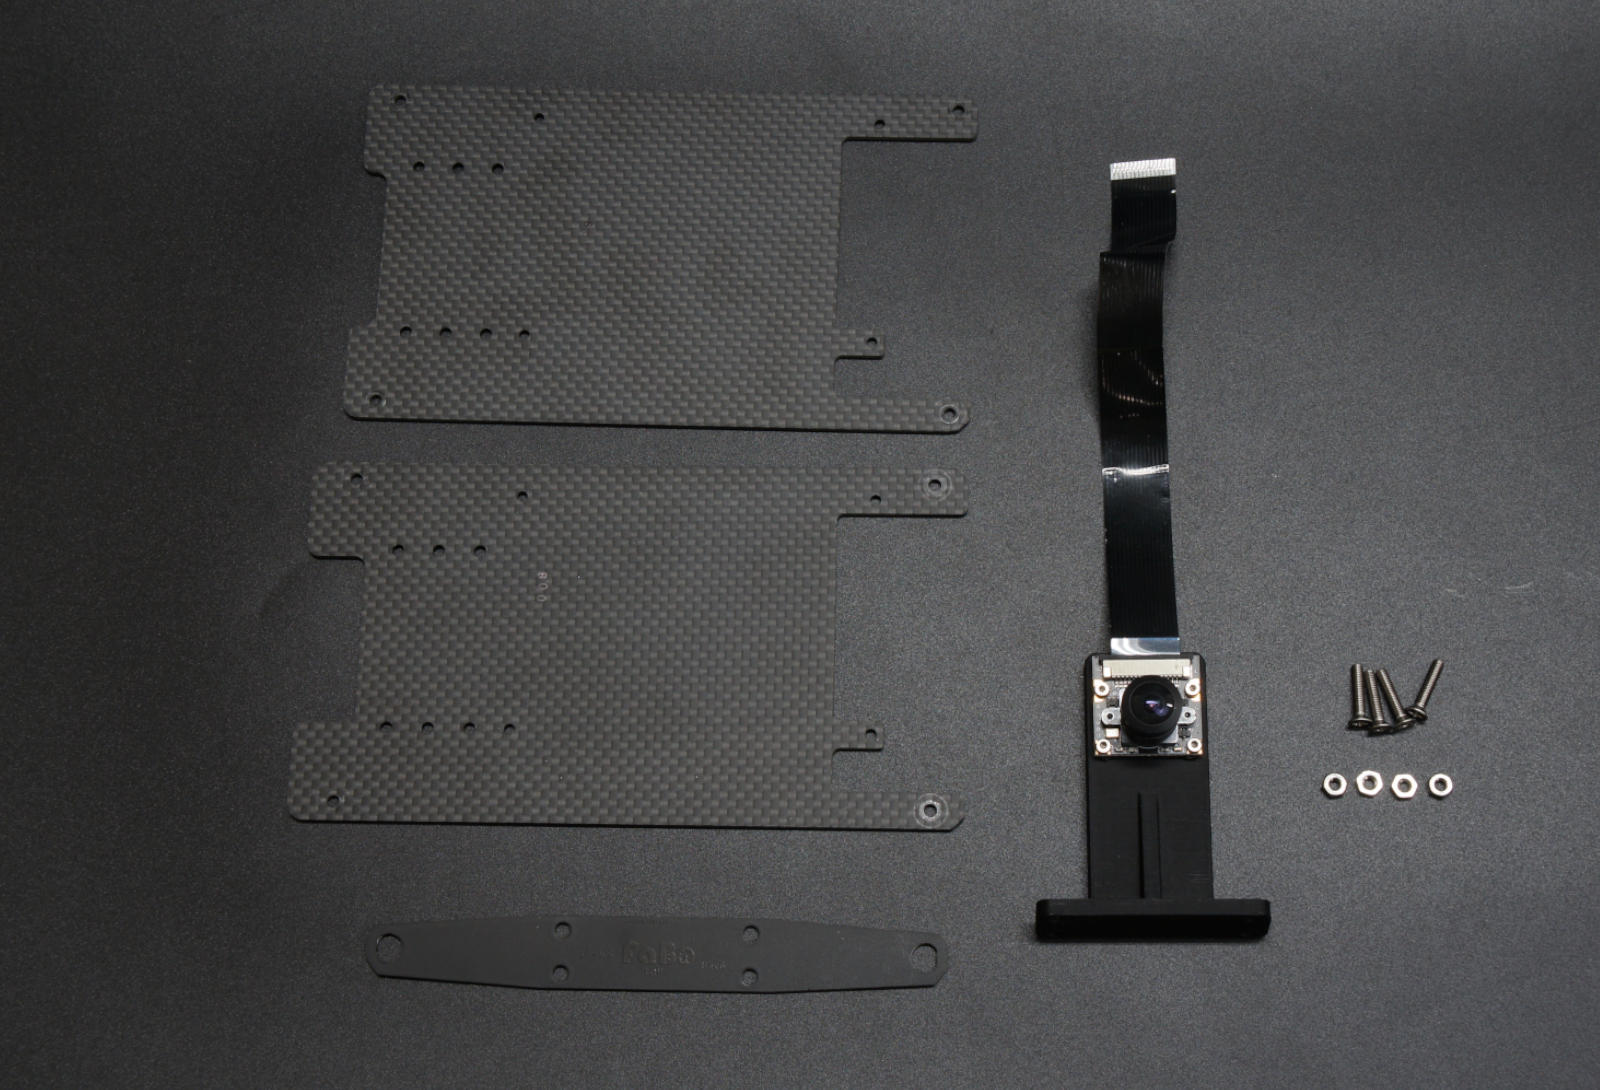
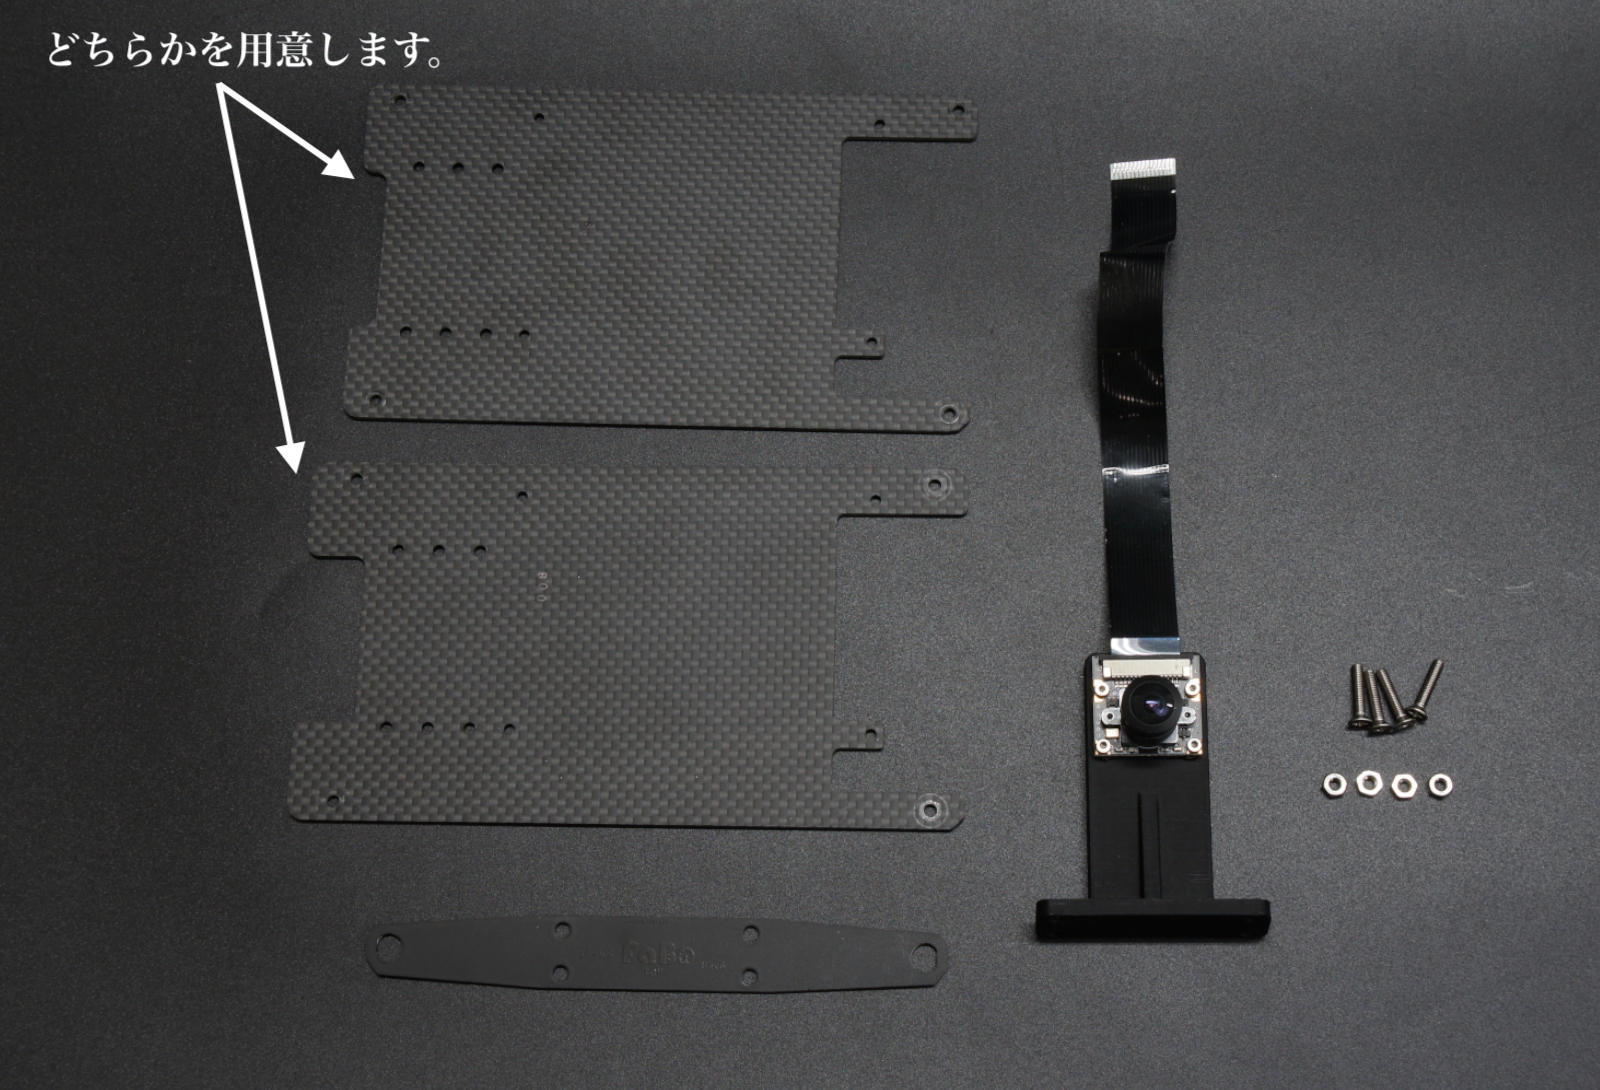
Deployed 196a131 with MkDocs version: 1.3.0

Changed region(s): [[0.0312, 0.0312, 0.2812, 0.2183], [0.1562, 0.2183, 0.1875, 0.4367], [0.1875, 0.1248, 0.2188, 0.1872]]

diff --git a/01.組み立て/carbon_edition/JR1_S_C_D/08.build_Carbon_D/index.html b/01.組み立て/carbon_edition/JR1_S_C_D/08.build_Carbon_D/index.html
@@ -1214,7 +1214,6 @@
 <p><img alt="" src="../../../img/img_carbon/D/DSC06397.JPG" /></p>
 <p>モバイルバッテリーとロワーパネルを両面テープで接着させます。モバイルバッテリーを中央ではなく片方に寄せます。（モバイルバッテリーの残量ランプを見やすくするため）</p>
 <p><img alt="" src="../../../img/img_carbon/D/DSC06399.JPG" /></p>
-<p><img alt="" src="./../../img/img_carbon/D/DSC06340.JPG" /></p>
 <p>カメラマウントを組み立てます。</p>
 <table>
 <thead>
@@ -1267,7 +1266,7 @@
 </tr>
 <tr>
 <td align="left"><img alt="" src="../../../img/img_bom/UpperPannelForSurpra.JPG" style="height:210px;width:200px" /><br><img alt="" src="../../../img/img_bom/UpperPannelForNSX009.JPG" style="height:210px;width:200px" /></td>
-<td align="left">アッパーパネルもしくはアッパーパネル（NSX専用）<br><br>※車体レスモデルは、アッパーパネルとなります。</td>
+<td align="left">アッパーパネルもしくはアッパーパネル（NSX専用）<br><br>※車体レスモデルは、車体に合わせてご使用ください。</td>
 <td align="center">１枚</td>
 </tr>
 <tr>
@@ -1752,7 +1751,6 @@
 <p><img alt="JetRacer" src="../../../img/img_carbon/C/bodykotei.jpg" /></p>
 <p>ボディ装着後</p>
 <p><img alt="JetRacer" src="../../../img/img_carbon/C/GR_Surpra.jpg" /></p>
-<p>※車体レスモデル　ボディ形状によっては干渉し、使用できない場合がございます。</p>
 <p>動作が確認できましたら、以上JetRacerKitの組み立ては完了となります。
 カメラにレンズキャップがついている場合は取り外します。
 お疲れ様でした。</p>

diff --git a/01.組み立て/carbon_edition/JR1_S_C_D/07.bom_CarbonEdition_D/index.html b/01.組み立て/carbon_edition/JR1_S_C_D/07.bom_CarbonEdition_D/index.html
@@ -934,7 +934,7 @@
 </tr>
 <tr>
 <td align="left"><img alt="" class="bom_listsize" src="../../../img/img_bom/UpperPannelForSurpra.JPG" /><img alt="" class="bom_listsize" src="../../../img/img_bom/UpperPannelForNSX009.JPG" /></td>
-<td align="left">拡張ボディ カーボンアッパーパネル<br><br>※上下いずれかになります。<br><br>(上)通常パネル コード：００８<br>(下)NSX専用パネル コード：００９</td>
+<td align="left">拡張ボディ カーボンアッパーパネル<br><br>※上下いずれかになります。※車体レスモデルはセット<br><br>(上)通常パネル コード：００８<br>(下)NSX専用パネル コード：００９</td>
 <td align="left">１枚</td>
 </tr>
 <tr>
